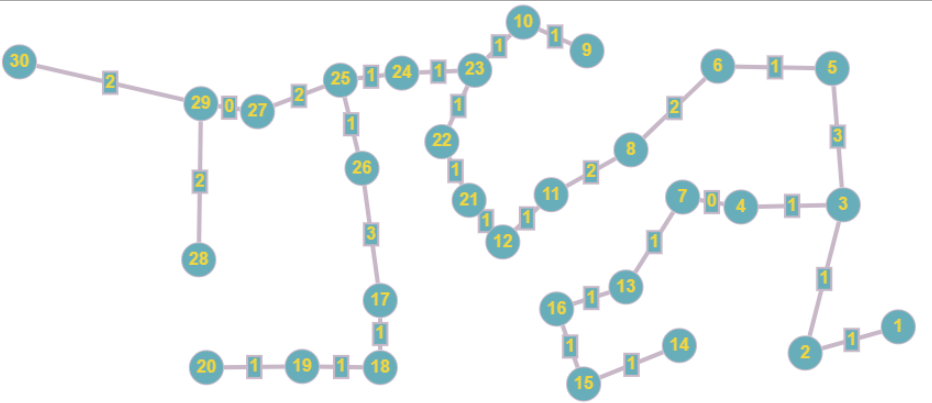
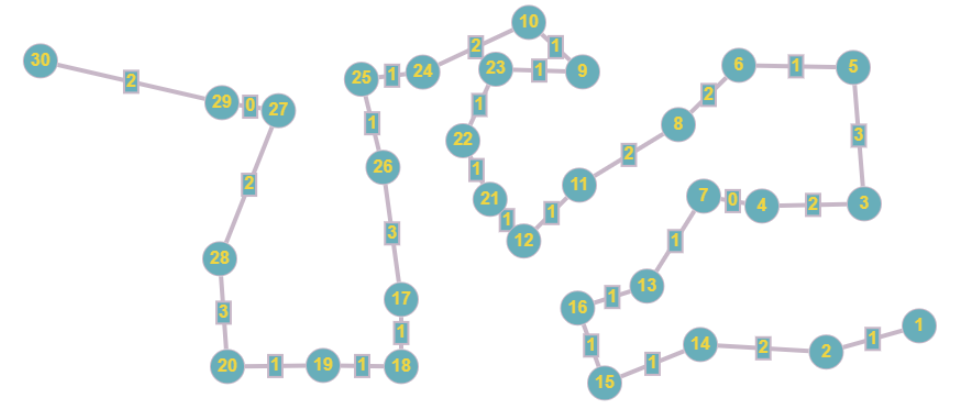
feat: dijkstra grafo-1

Changed region(s): [[0.0, 0.0, 0.9335, 0.9529], [0.5601, 0.5658, 0.9957, 1.0], [0.7157, 0.4467, 0.9335, 0.804]]

diff --git a/Modelagem_analise_avaliacao_de_Desempenho_de_Sistemas_Automatizados/Grafo_1_em_grupo/dijkstra.py b/Modelagem_analise_avaliacao_de_Desempenho_de_Sistemas_Automatizados/Grafo_1_em_grupo/dijkstra.py
@@ -1,0 +1,68 @@
+def dijkstra(matriz, vertice_inicial):
+    n = len(matriz)
+    caminho_mais_curto = [float('inf')] * n
+    caminho_mais_curto[vertice_inicial] = 0
+    visitados = [False] * n
+    caminhos = {}
+    u = vertice_inicial
+
+    while True:
+        distancia_minima = float('inf')
+        visitados[u] = True
+
+        for k in range(n):
+            if not visitados[k] and matriz[u][k] and caminho_mais_curto[u] + matriz[u][k] < caminho_mais_curto[k]:
+                caminho_mais_curto[k] = caminho_mais_curto[u] + matriz[u][k]
+                caminhos[(u+1, k+1)] = matriz[u][k]
+
+        u_next = -1
+        for i in range(n):
+            if not visitados[i] and caminho_mais_curto[i] < distancia_minima:
+                u_next = i
+                distancia_minima = caminho_mais_curto[i]
+
+        if u_next == -1:
+            break
+        
+        u = u_next
+
+    return caminhos
+
+
+
+
+
+matriz_grafo = [
+    [0, 1, 0, 0, 0, 0, 0, 0, 0, 0, 0, 0, 0, 0, 0, 0, 0, 0, 0, 0, 0, 0, 0, 0, 0, 0, 0, 0, 0, 0], # 0
+    [1, 0, 0, 0, 0, 0, 0, 0, 0, 0, 0, 0, 0, 2, 0, 0, 0, 0, 0, 0, 0, 0, 0, 0, 0, 0, 0, 0, 0, 0], # 1
+    [0, 0, 0, 2, 3, 0, 0, 0, 0, 0, 0, 0, 0, 0, 0, 0, 0, 0, 0, 0, 0, 0, 0, 0, 0, 0, 0, 0, 0, 0], # 2
+    [0, 0, 2, 0, 0, 0, 0, 0, 0, 0, 0, 0, 0, 0, 0, 0, 0, 0, 0, 0, 0, 0, 0, 0, 0, 0, 0, 0, 0, 0], # 3
+    [0, 0, 3, 0, 0, 1, 0, 0, 0, 0, 0, 0, 0, 0, 0, 0, 0, 0, 0, 0, 0, 0, 0, 0, 0, 0, 0, 0, 0, 0], # 4
+    [0, 0, 0, 0, 1, 0, 0, 0, 0, 1, 0, 1, 0, 0, 0, 0, 0, 0, 0, 0, 1, 0, 0, 0, 0, 0, 0, 0, 0, 0], # 5
+    [0, 0, 0, 0, 0, 0, 0, 0, 0, 0, 0, 0, 1, 0, 0, 0, 0, 0, 0, 0, 0, 0, 0, 0, 0, 0, 0, 0, 0, 0], # 6
+    [0, 0, 0, 0, 0, 0, 0, 0, 1, 0, 2, 0, 0, 0, 0, 0, 0, 0, 0, 0, 0, 0, 0, 0, 0, 0, 0, 0, 0, 0], # 7
+    [0, 0, 0, 0, 0, 0, 0, 1, 0, 1, 0, 0, 0, 0, 0, 0, 0, 0, 0, 0, 0, 0, 1, 0, 0, 0, 0, 0, 0, 0], # 8
+    [0, 0, 0, 0, 0, 1, 0, 0, 1, 0, 2, 0, 0, 0, 0, 0, 0, 0, 0, 0, 0, 0, 0, 2, 0, 0, 0, 0, 0, 0], # 9
+    [0, 0, 0, 0, 0, 0, 0, 2, 0, 2, 0, 0, 0, 0, 0, 0, 0, 0, 0, 0, 0, 0, 0, 0, 0, 0, 0, 0, 0, 0], #10
+    [0, 0, 0, 0, 0, 1, 0, 0, 0, 0, 0, 0, 0, 0, 0, 0, 0, 0, 0, 0, 1, 0, 0, 0, 0, 0, 0, 0, 0, 0], #11
+    [0, 0, 0, 0, 0, 0, 1, 0, 0, 0, 0, 0, 0, 0, 0, 0, 0, 0, 0, 0, 0, 0, 0, 0, 0, 0, 0, 0, 0, 0], #12
+    [0, 2, 0, 0, 0, 0, 0, 0, 0, 0, 0, 0, 0, 0, 0, 0, 0, 0, 0, 0, 0, 0, 0, 0, 0, 0, 0, 0, 0, 0], #13
+    [0, 0, 0, 0, 0, 0, 0, 0, 0, 0, 0, 0, 0, 0, 0, 0, 0, 0, 0, 0, 0, 0, 0, 0, 0, 0, 0, 0, 0, 0], #14
+    [0, 0, 0, 0, 0, 0, 0, 0, 0, 0, 0, 0, 0, 0, 0, 0, 0, 0, 0, 0, 0, 0, 0, 0, 0, 0, 0, 0, 0, 0], #15
+    [0, 0, 0, 0, 0, 0, 0, 0, 0, 0, 0, 0, 0, 0, 0, 0, 0, 0, 0, 0, 0, 0, 0, 0, 0, 0, 0, 0, 0, 0], #16
+    [0, 0, 0, 0, 0, 0, 0, 0, 0, 0, 0, 0, 0, 0, 0, 0, 0, 0, 0, 0, 0, 0, 0, 0, 0, 0, 0, 0, 0, 0], #17
+    [0, 0, 0, 0, 0, 0, 0, 0, 0, 0, 0, 0, 0, 0, 0, 0, 0, 0, 0, 0, 0, 0, 0, 0, 0, 0, 0, 0, 0, 0], #18
+    [0, 0, 0, 0, 0, 0, 0, 0, 0, 0, 0, 0, 0, 0, 0, 0, 0, 0, 0, 0, 0, 0, 0, 0, 0, 0, 0, 0, 0, 0], #19
+    [0, 0, 0, 0, 0, 1, 0, 0, 0, 0, 0, 1, 0, 0, 0, 0, 0, 0, 0, 0, 0, 0, 0, 0, 0, 0, 0, 0, 0, 0], #20
+    [0, 0, 0, 0, 0, 0, 0, 0, 0, 0, 0, 0, 0, 0, 0, 0, 0, 0, 0, 0, 0, 0, 0, 0, 0, 0, 0, 0, 0, 0], #21
+    [0, 0, 0, 0, 0, 0, 0, 0, 1, 0, 0, 0, 0, 0, 0, 0, 0, 0, 0, 0, 0, 0, 0, 0, 0, 0, 0, 0, 0, 0], #22
+    [0, 0, 0, 0, 0, 0, 0, 0, 0, 2, 0, 0, 0, 0, 0, 0, 0, 0, 0, 0, 0, 0, 0, 0, 0, 0, 0, 0, 0, 0], #23
+    [0, 0, 0, 0, 0, 0, 0, 0, 0, 0, 0, 0, 0, 0, 0, 0, 0, 0, 0, 0, 0, 0, 0, 0, 0, 0, 0, 0, 0, 0], #24
+    [0, 0, 0, 0, 0, 0, 0, 0, 0, 0, 0, 0, 0, 0, 0, 0, 0, 0, 0, 0, 0, 0, 0, 0, 0, 0, 0, 0, 0, 0], #25
+    [0, 0, 0, 0, 0, 0, 0, 0, 0, 0, 0, 0, 0, 0, 0, 0, 0, 0, 0, 0, 0, 0, 0, 0, 0, 0, 0, 0, 0, 0], #26
+    [0, 0, 0, 0, 0, 0, 0, 0, 0, 0, 0, 0, 0, 0, 0, 0, 0, 0, 0, 0, 0, 0, 0, 0, 0, 0, 0, 0, 0, 0], #27
+    [0, 0, 0, 0, 0, 0, 0, 0, 0, 0, 0, 0, 0, 0, 0, 0, 0, 0, 0, 0, 0, 0, 0, 0, 0, 0, 0, 0, 0, 0], #28 
+    [0, 0, 0, 0, 0, 0, 0, 0, 0, 0, 0, 0, 0, 0, 0, 0, 0, 0, 0, 0, 0, 0, 0, 0, 0, 0, 0, 0, 0, 0] #29
+]
+vertice_inicial = 0  # Começando do vértice 0
+print(dijkstra(matriz_grafo, vertice_inicial))

diff --git a/Modelagem_analise_avaliacao_de_Desempenho_de_Sistemas_Automatizados/questao_4/menor_caminho.py b/Modelagem_analise_avaliacao_de_Desempenho_de_Sistemas_Automatizados/questao_4/menor_caminho.py
@@ -26,6 +26,7 @@ matriz_d =[ [0, 1, 0, 0, 1, 0, 0, 0, 0, 0],
             [0, 0, 0, 0, 0, 1, 0, 0, 1, 0]
             ]
 
+
 dijkstra_1 = Dijkstra(matriz_e)
 inicio = 0  # A é o 1º vértice, então seu índice é 0
 dijkstra_1.plotar_grafo_circulo('matriz_e.png')
